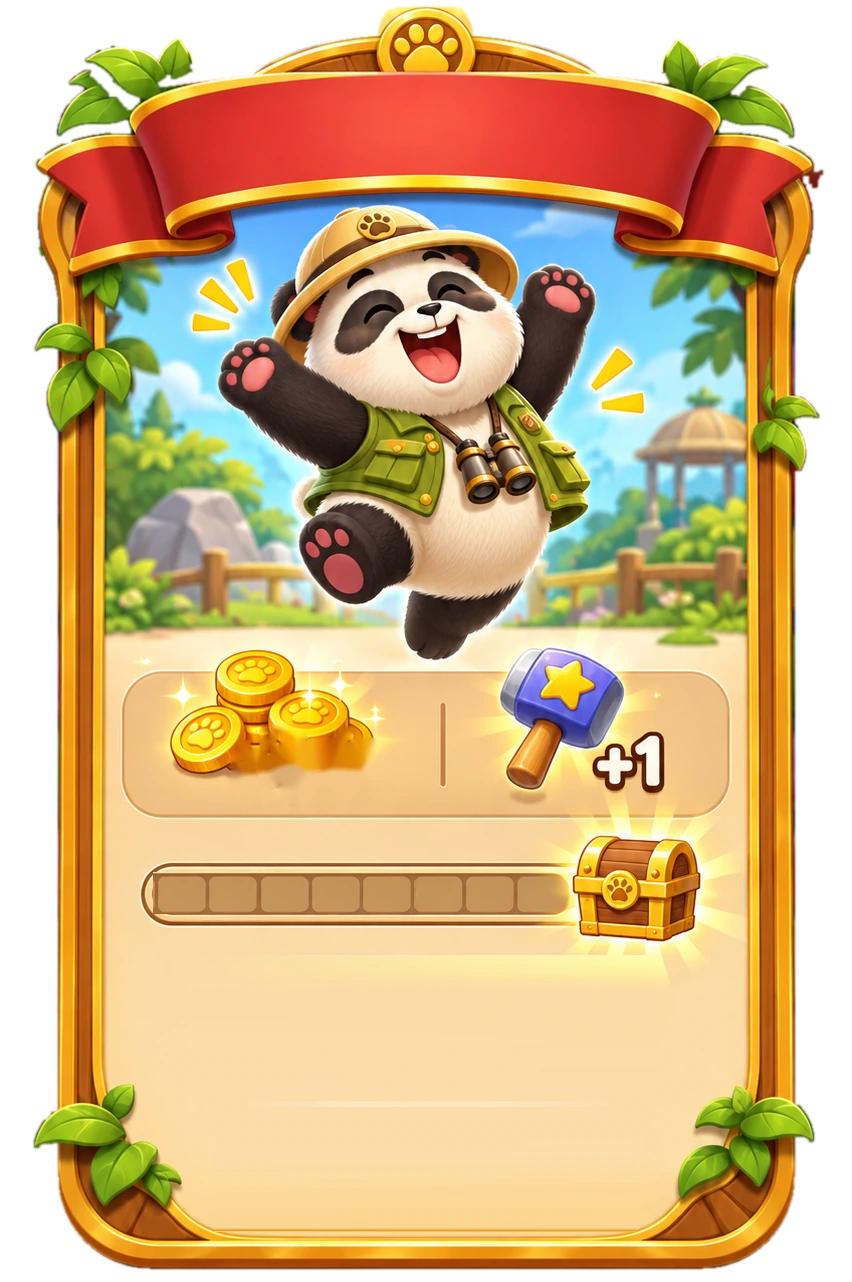
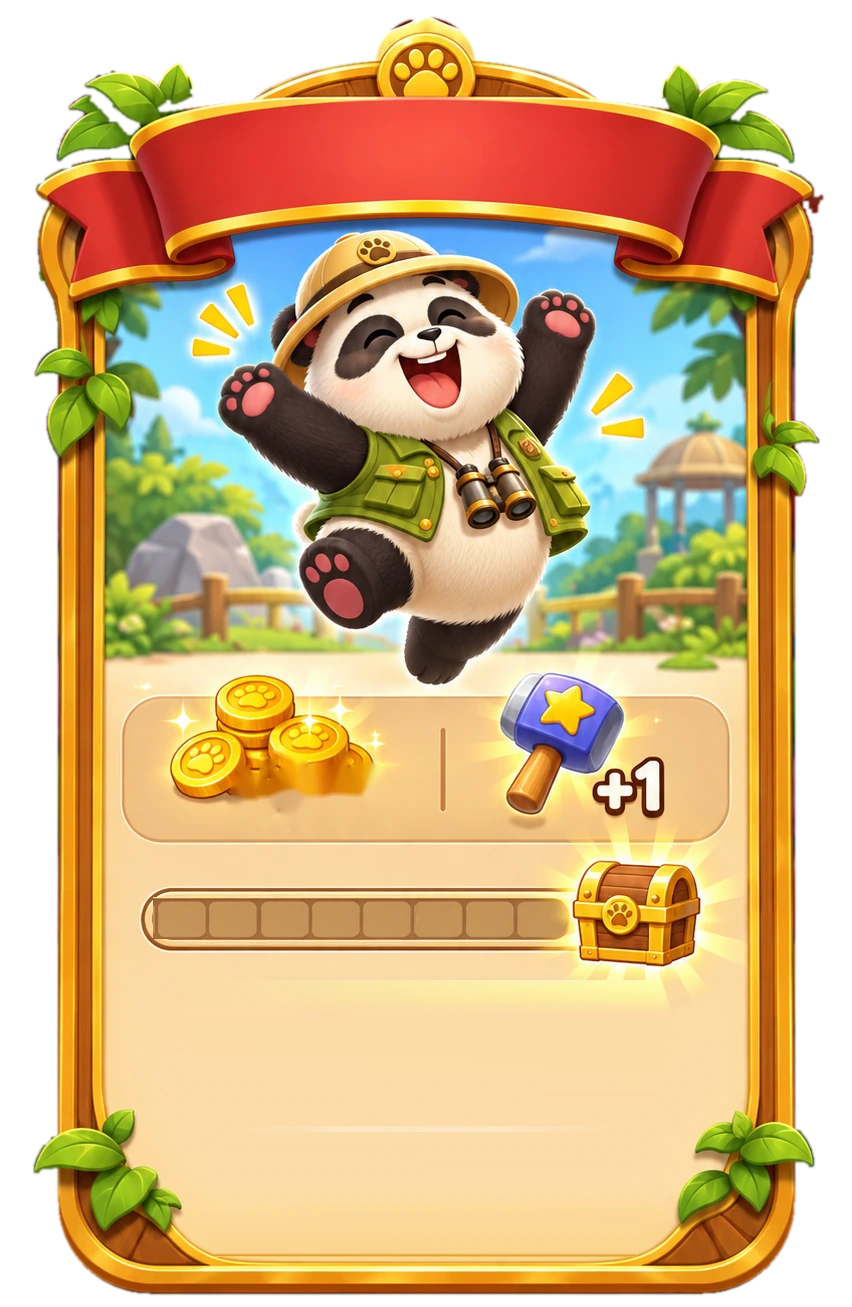
match3 2.51.0: whole paw on win window, symmetric full-width loading bar
Claude-Session: https://claude.ai/code/session_01XZnRVWMBNfnFDLL39n42Z1

diff --git a/match3/tools/winbuild.py b/match3/tools/winbuild.py
@@ -22,10 +22,10 @@ from scipy import ndimage as ndi
 
 ROOT = os.path.dirname(os.path.dirname(os.path.abspath(__file__)))
 OUT = os.path.join(ROOT, "assets", "art")
-WIN_Y0, WIN_Y1 = 380, 1662                 # слой окна по высоте
+WIN_Y0, WIN_Y1 = 355, 1662                 # слой окна по высоте
 BODY = (59, 560, 793, 1647, 92)            # тело рамки: лево, верх, право, низ, радиус нижних углов
 ARCH = (425, 472, 178, 58)                 # эллипс деревянной арки над лентой (центр, полуоси)
-PAW = (425, 420, 47)                       # круг лапки на арке
+PAW = (425, 422, 49)                       # круг лапки на арке
 COINS_TXT = (230, 1104, 396, 1192)         # «+150» — стирается
 BAR = (150, 1250, 416, 1296)               # зелёная часть полоски (5 клеток) — заменяется пустыми
 SEG_X0, SEG_P = 156.0, 51.3                # начало первой клетки и шаг клеток (8 клеток)

diff --git a/docs/DEVELOPMENT_STATUS.md b/docs/DEVELOPMENT_STATUS.md
@@ -84,3 +84,4 @@
 - v2.47.0 2026-11-17 (жалоба владельца: при многих взрывах проседает плавность, много тряски, финал «висит», камни падают медленно): тряска с потолком 12 px (раньше сила суммировалась до ~80) и гаснет быстрее; место поля для тряски считается один раз (раньше _board_rest() — вся раскладка шапки — пересчитывался каждый кадр всегда); вспышка экрана слабее и только в игре; замедление — только при очень большом взрыве, в игре и не чаще раза в 3 с, короче (0.6× на 0.35 с); бабочка летит 0.9 с вместо 1.5; падение фишек быстрее (~25 %); финал сам ускорен ×1.8 (тап — ×6), бабочек в финале максимум 8, вылет быстрее; при нагрузке эффектов (>40 узлов) след ракеты упрощается, огненные/дымовые клипы режутся раньше. Стресс-тест 18 бустеров разом (-- --perf): пик эффектов 192 → 127 узлов.
 - 2.48.0–2.49.0 (2026-11-17): окно подсказки в общем стиле окон; число монет в окне победы ужимается под ширину; звёзды окна победы перевырезаны без дыр. Разлом препятствий: картинка раскалывается на клинья, куски летят и кувыркаются, облачко пыли; лёд и лианы тоже раскалываются. Шар + бустер: цепная молния превращает фишки цвета в бустеры, пауза-дрожь, затем бустеры взрываются по очереди (--orbdemo).
 - 2.50.0 (2026-11-17): звёзды окна победы вырезаны по тёмному контуру целиком; окно подсказки собрано на общей ровной рамке (как пауза), текст по центру шрифтом игры; бабочка+ракета — ракета летит в ту же сторону, что и рисуется (раньше область и полёт выбирались случайно по отдельности), направление — где больше препятствий; цель бабочки засчитывается и трава растёт, только когда бабочка долетела; крестик «на главную» в окне победы.
+- 2.51.0 (2026-11-17): лапка над лентой окна победы больше не срезана (слой окна начинается выше); экран загрузки — своя ровная полоска по центру на всю ширину, лапка-медальон вырезана из картинки (load_paw.png).
